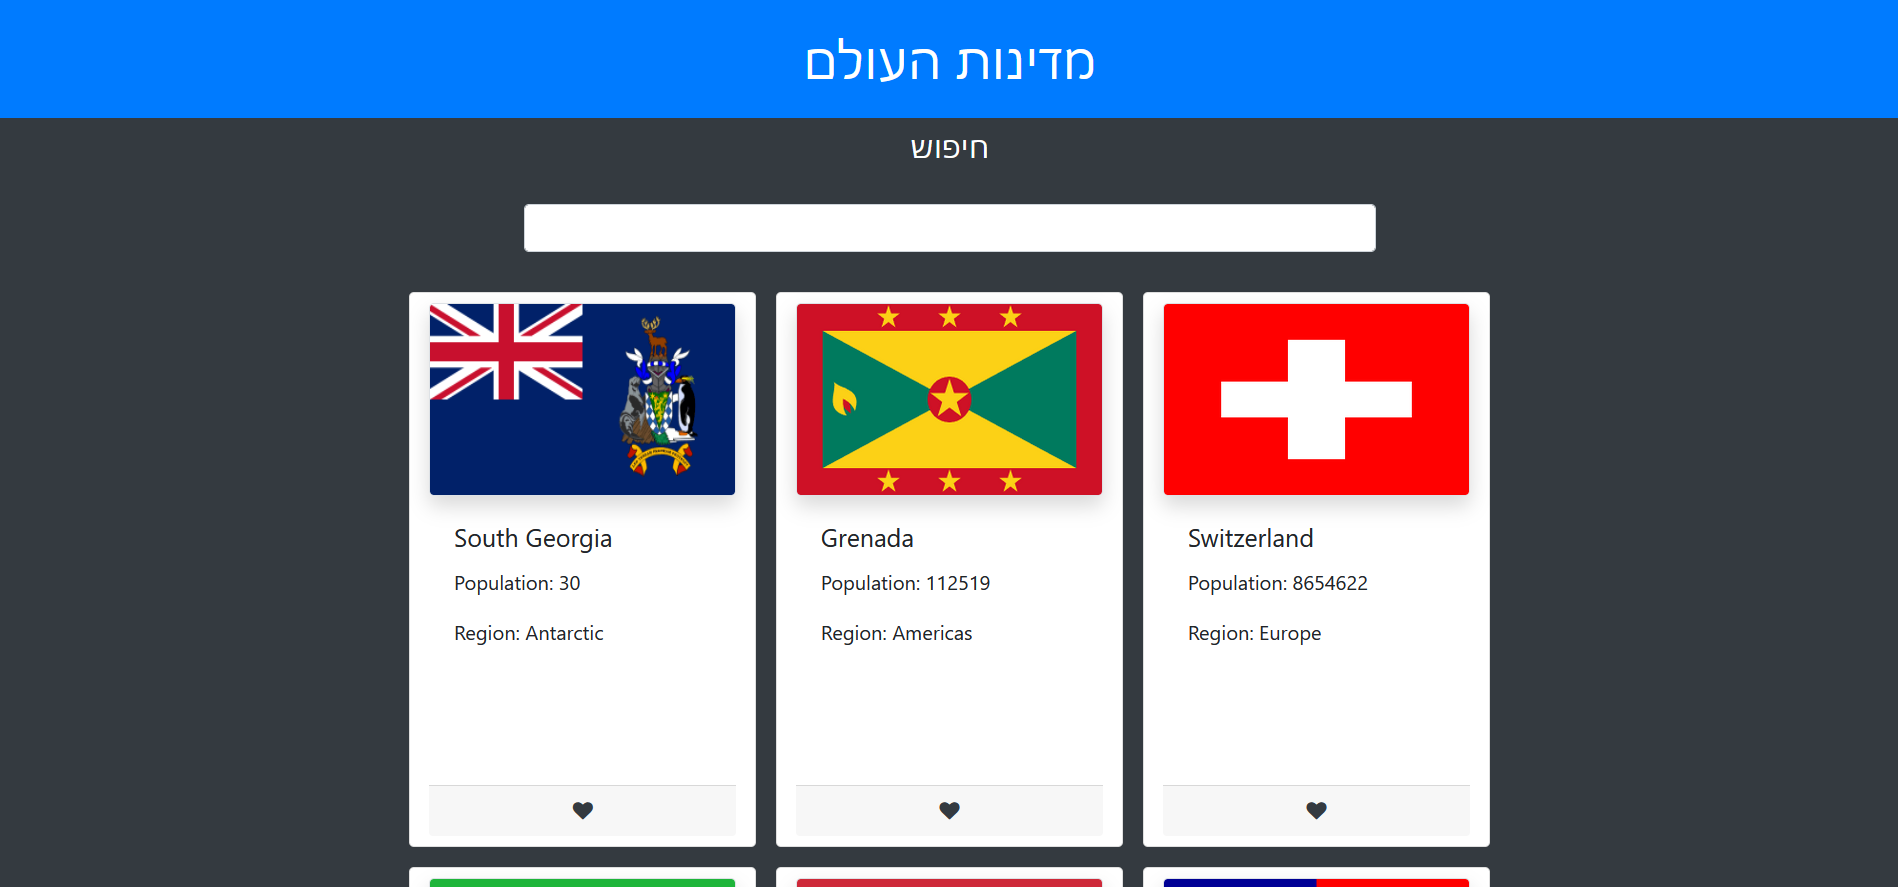
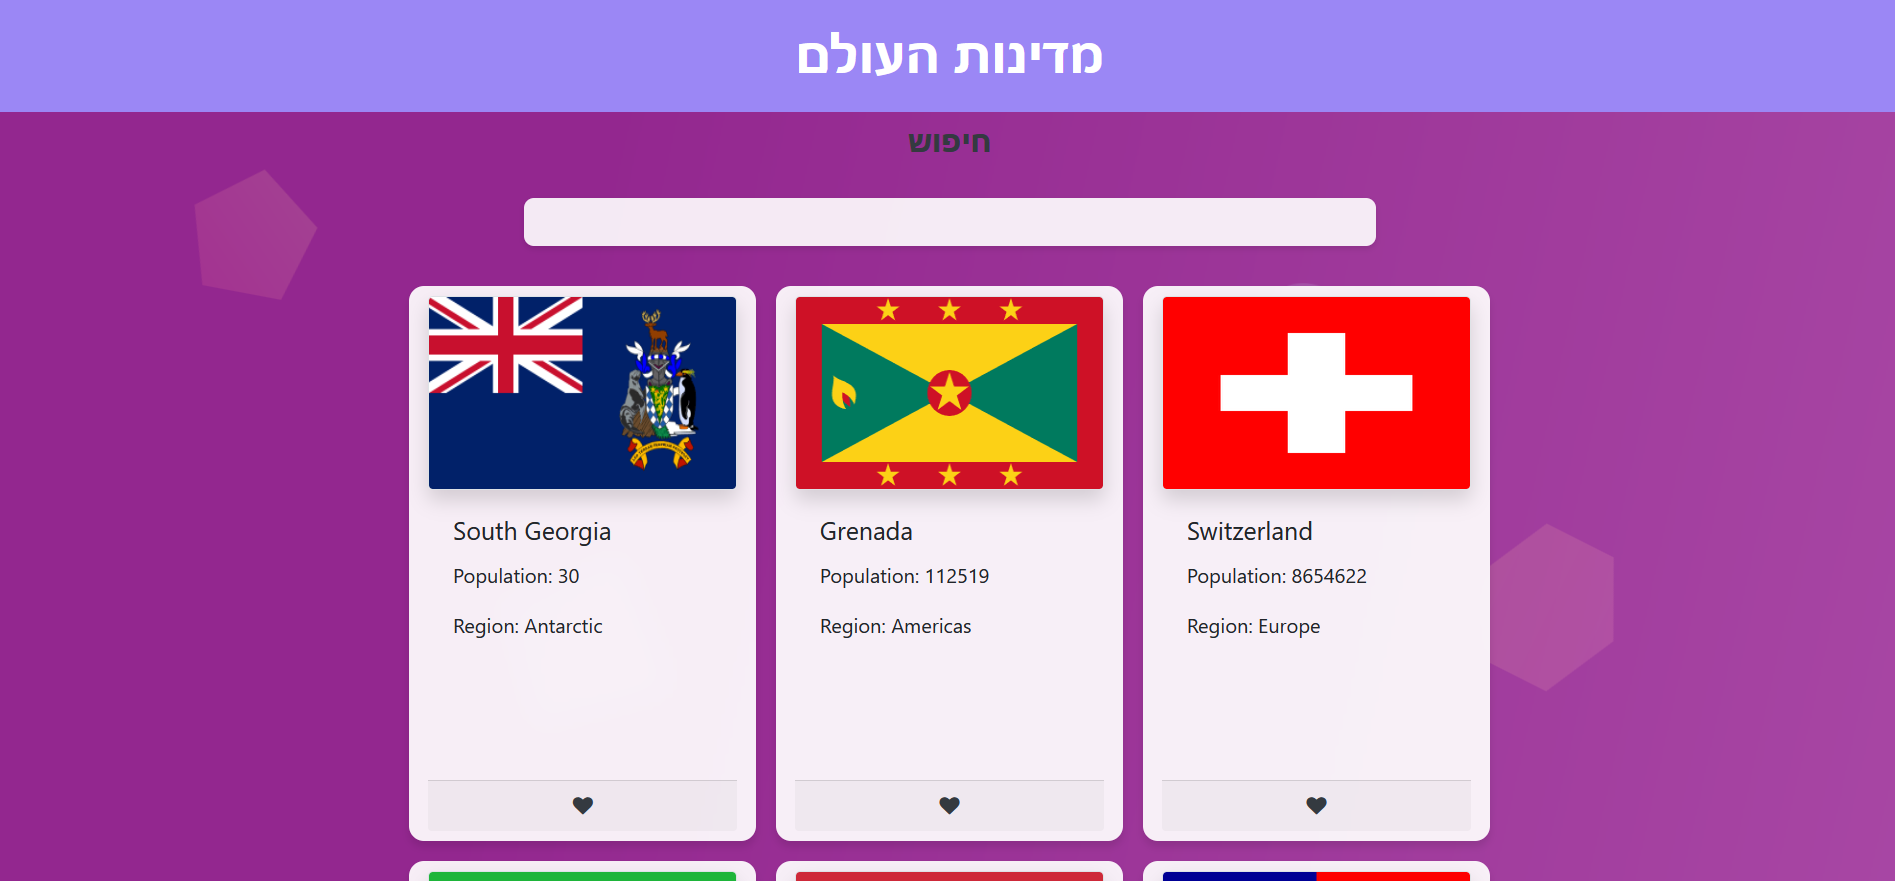
Update styling for Countries project

diff --git a/countries_project/styles.css b/countries_project/styles.css
@@ -4,10 +4,163 @@
     box-sizing: border-box;
 }
 
+body {
+    position: relative;
+    overflow-x: hidden;
+    background: linear-gradient(102.3deg, rgba(147, 39, 143, 1) 5.9%, rgba(234, 172, 232, 1) 64%, rgba(246, 219, 245, 1) 89%);
+}
+
+/* Custom background color */
+.bg-purple {
+    background-color: #9b87f5;
+}
+
+/* Existing styles */
 .img {
     height: 35%;
 }
 
 .fa:hover {
     cursor: pointer;
+}
+
+/* Background animation */
+.geometric-background {
+    position: fixed;
+    top: 0;
+    left: 0;
+    width: 100%;
+    height: 100%;
+    z-index: -1;
+    overflow: hidden;
+}
+
+.shape {
+    position: absolute;
+    opacity: 0.15;
+    animation: float 20s infinite ease-in-out;
+}
+
+.shape-1 {
+    top: 20%;
+    left: 10%;
+    width: 100px;
+    height: 100px;
+    background: linear-gradient(225deg, #FFE29F 0%, #FFA99F 48%, #FF719A 100%);
+    clip-path: polygon(50% 0%, 100% 38%, 82% 100%, 18% 100%, 0% 38%);
+    animation-delay: -2s;
+}
+
+.shape-2 {
+    top: 60%;
+    right: 15%;
+    width: 120px;
+    height: 120px;
+    background: linear-gradient(to right, #ffc3a0 0%, #ffafbd 100%);
+    clip-path: polygon(25% 0%, 75% 0%, 100% 50%, 75% 100%, 25% 100%, 0% 50%);
+    animation-delay: -4s;
+}
+
+.shape-3 {
+    top: 30%;
+    right: 30%;
+    width: 80px;
+    height: 80px;
+    background: linear-gradient(to top, #accbee 0%, #e7f0fd 100%);
+    clip-path: circle(50% at 50% 50%);
+    animation-delay: -6s;
+}
+
+.shape-4 {
+    bottom: 20%;
+    left: 25%;
+    width: 150px;
+    height: 150px;
+    background: linear-gradient(to top, #d299c2 0%, #fef9d7 100%);
+    clip-path: polygon(50% 0%, 100% 50%, 50% 100%, 0% 50%);
+    animation-delay: -8s;
+}
+
+@keyframes float {
+    0% {
+        transform: translate(0, 0) rotate(0deg);
+    }
+
+    20% {
+        transform: translate(20px, 20px) rotate(90deg);
+    }
+
+    40% {
+        transform: translate(-20px, 40px) rotate(180deg);
+    }
+
+    60% {
+        transform: translate(-30px, -20px) rotate(270deg);
+    }
+
+    80% {
+        transform: translate(20px, -40px) rotate(360deg);
+    }
+
+    100% {
+        transform: translate(0, 0) rotate(0deg);
+    }
+}
+
+/* Enhanced card styles */
+.card {
+    background: rgba(255, 255, 255, 0.92);
+    backdrop-filter: blur(10px);
+    border: none;
+    border-radius: 12px;
+    box-shadow: 0 4px 6px rgba(0, 0, 0, 0.1);
+    transition: transform 0.3s ease, box-shadow 0.3s ease;
+}
+
+.card:hover {
+    transform: translateY(-5px);
+    box-shadow: 0 8px 12px rgba(0, 0, 0, 0.2);
+}
+
+/* Responsive adjustments */
+@media (max-width: 768px) {
+    .shape {
+        transform: scale(0.7);
+    }
+
+    .shape-1 {
+        top: 10%;
+        left: 5%;
+    }
+
+    .shape-2 {
+        top: 70%;
+        right: 5%;
+    }
+
+    .shape-3 {
+        top: 40%;
+        right: 20%;
+    }
+
+    .shape-4 {
+        bottom: 15%;
+        left: 15%;
+    }
+}
+
+/* Enhanced input styles */
+#search-input {
+    background: rgba(255, 255, 255, 0.9);
+    border: none;
+    border-radius: 8px;
+    padding: 12px 20px;
+    box-shadow: 0 2px 4px rgba(0, 0, 0, 0.1);
+    transition: all 0.3s ease;
+}
+
+#search-input:focus {
+    background: rgba(255, 255, 255, 1);
+    box-shadow: 0 4px 8px rgba(0, 0, 0, 0.15);
+    outline: none;
 }

diff --git a/countries_project/index.html b/countries_project/index.html
@@ -18,13 +18,21 @@
 </head>
 
 <body class="bg-dark">
+    <!-- Geometric Background -->
+    <div class="geometric-background">
+        <div class="shape shape-1"></div>
+        <div class="shape shape-2"></div>
+        <div class="shape shape-3"></div>
+        <div class="shape shape-4"></div>
+    </div>
+
     <!-- Title -->
-    <div class="bg-primary">
-        <h1 class="text-center text-white p-4">מדינות העולם</h1>
+    <div class="bg-purple">
+        <h1 class="text-center text-white p-4 font-weight-bold">מדינות העולם</h1>
     </div>
 
     <!-- Search -->
-    <h4 class="text-center text-white">חיפוש</h4>
+    <h4 class="text-center text-dark font-weight-bold">חיפוש</h4>
     <div class="m-auto mt-1 d-flex justify-content-center col-md-6 col-sm-12">
         <input id="search-input" class="form-control m-4" />
     </div>
